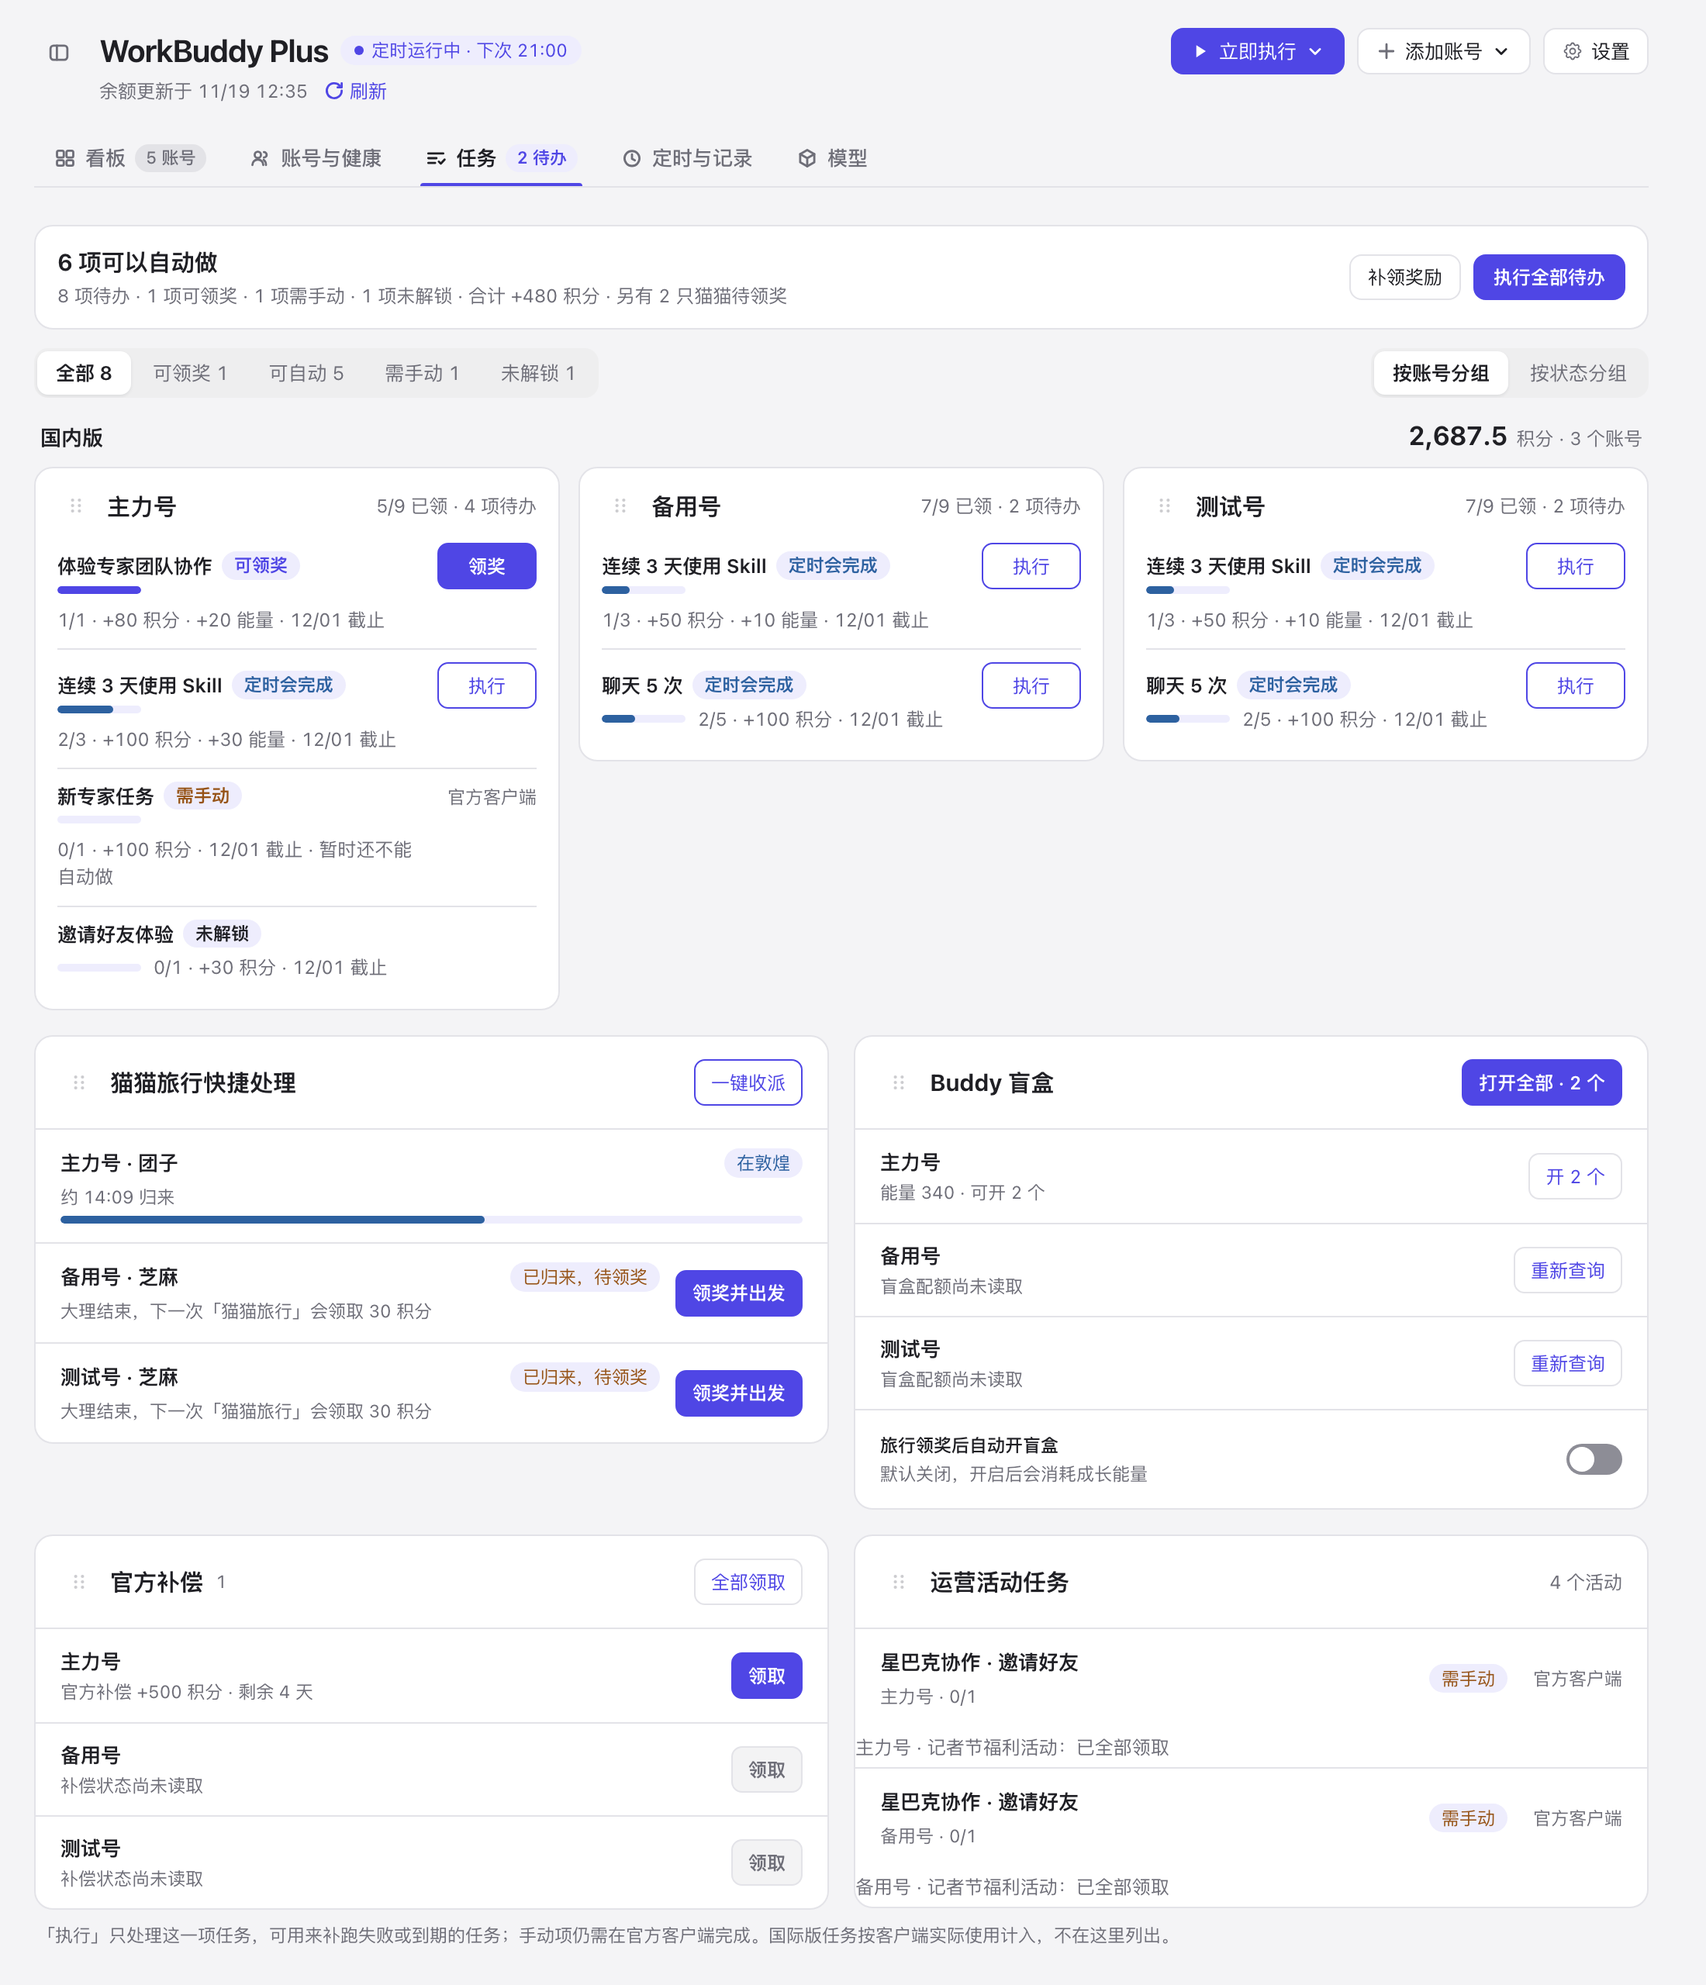
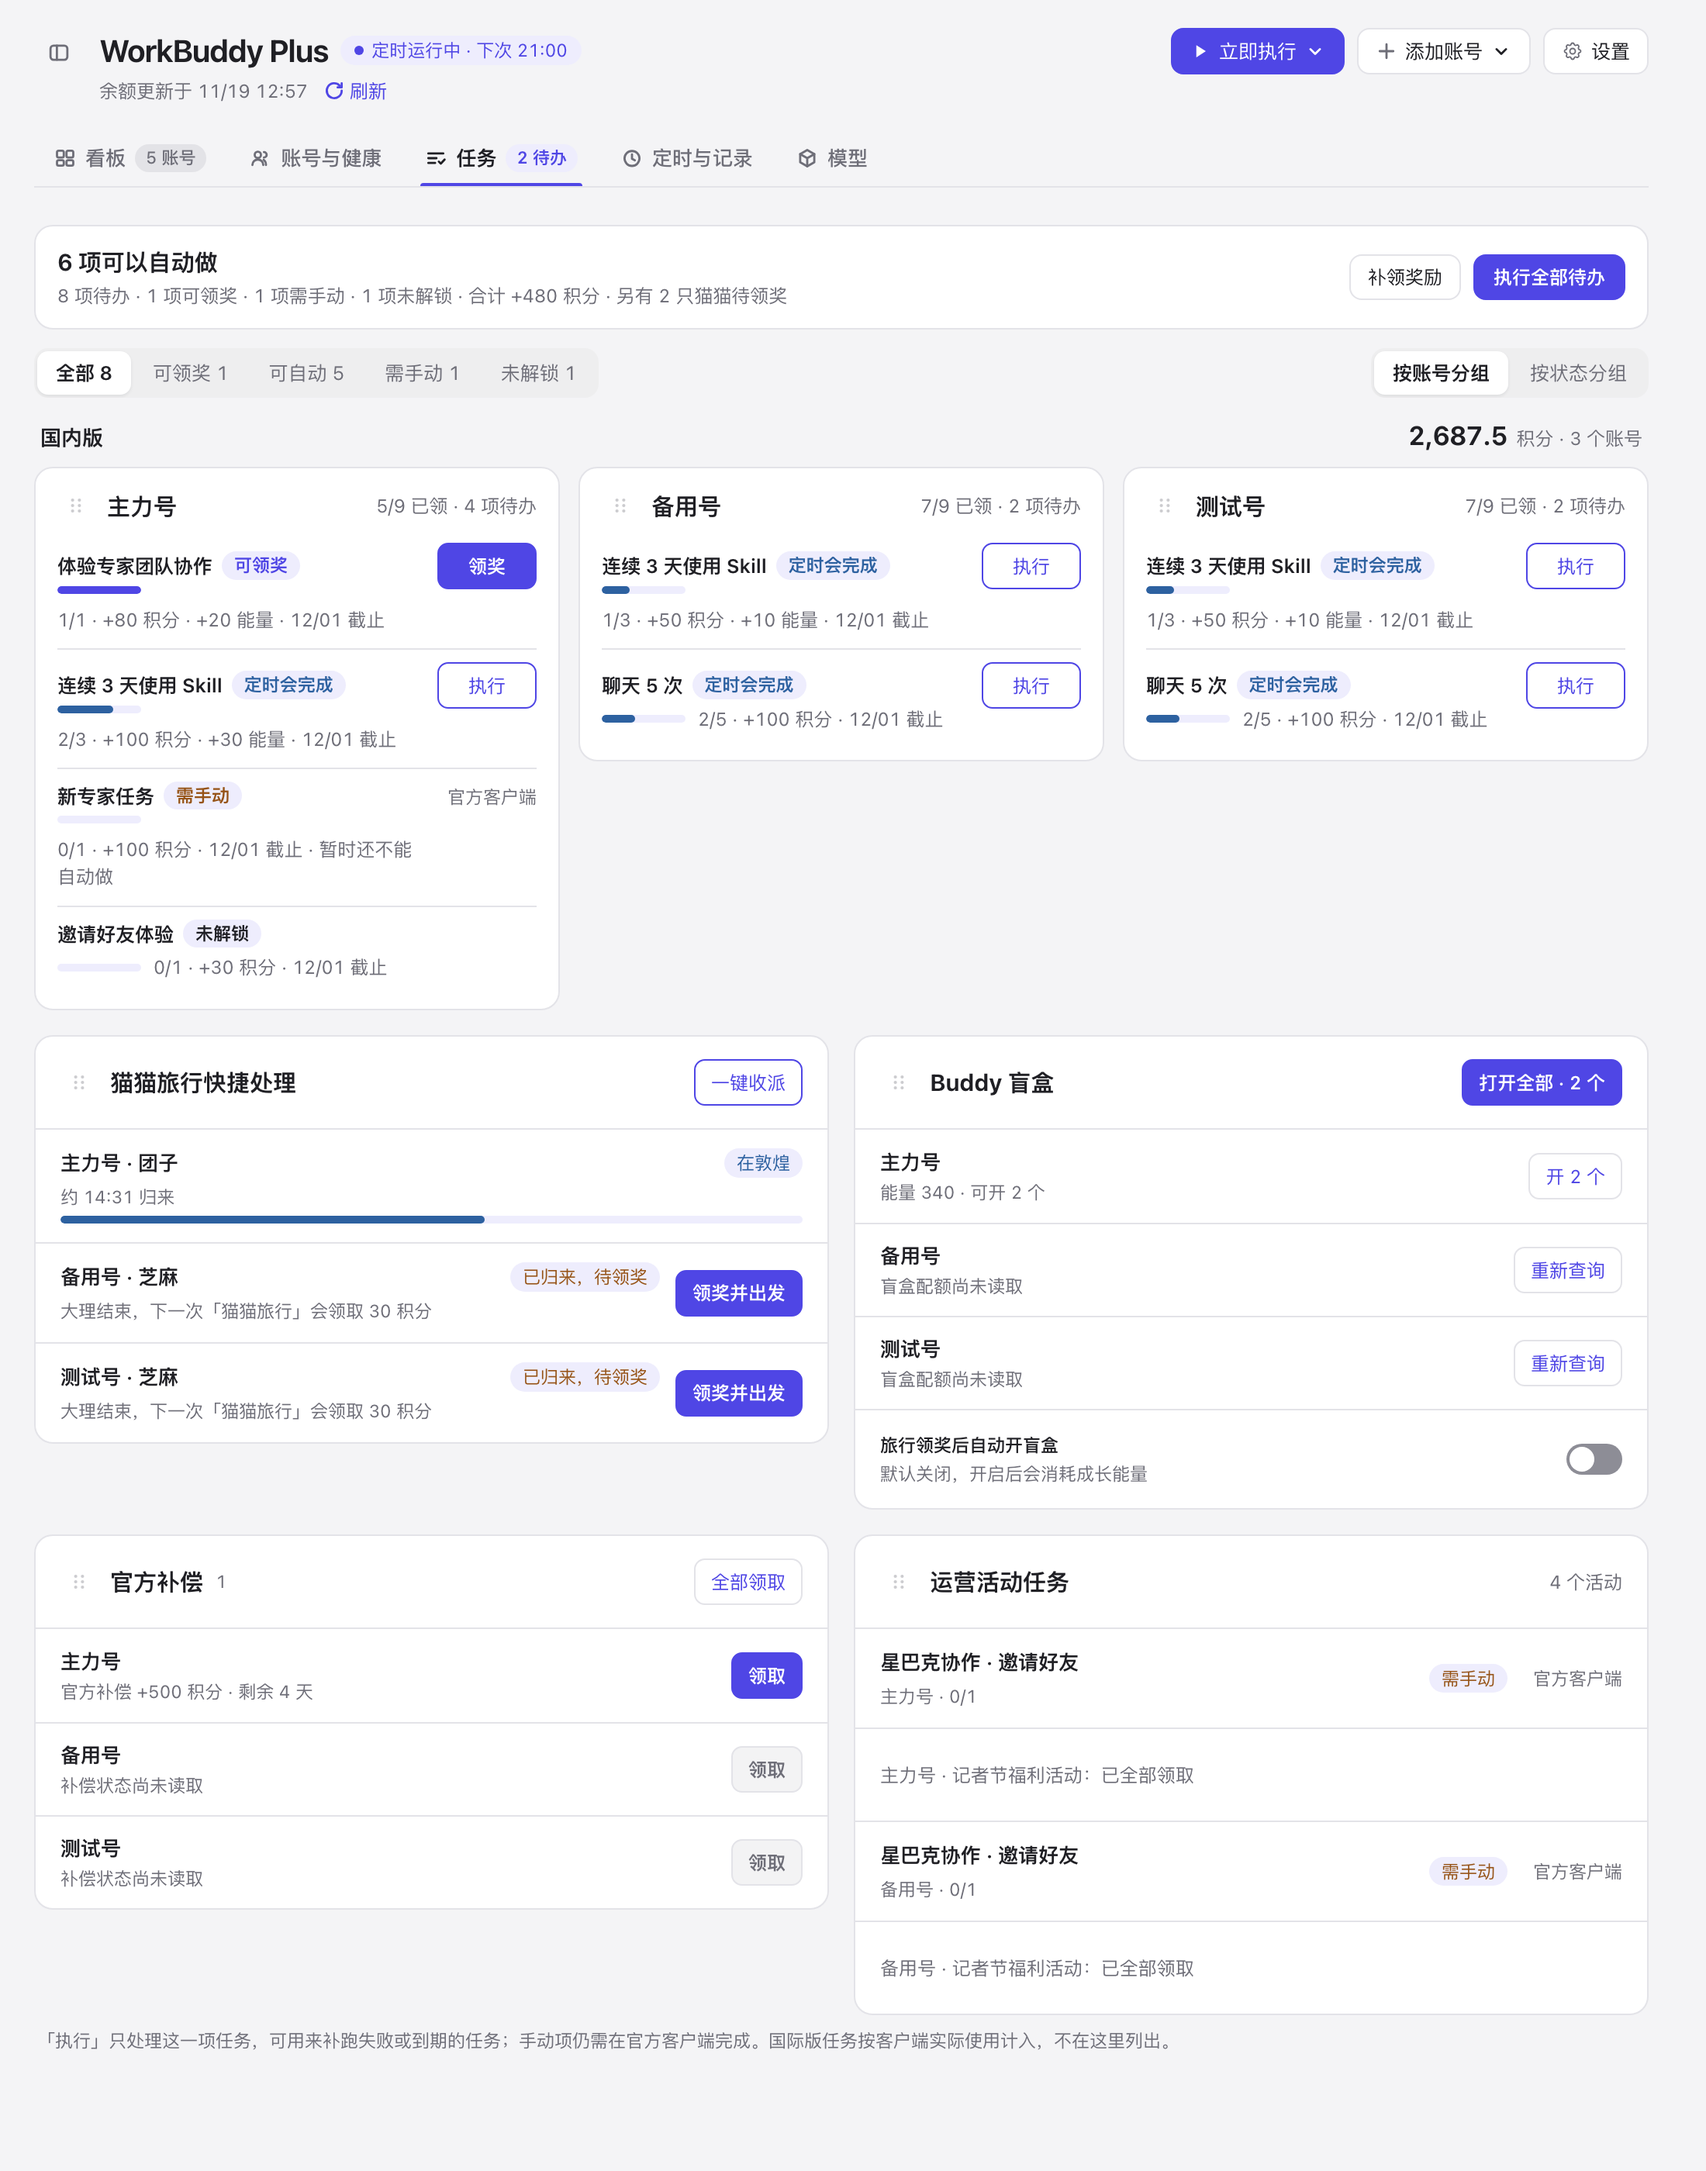
Give claimed campaign rows the task row height
- Use the 60px row rhythm and dividers for fully claimed campaign lines.
- Refresh the demo screenshots with a taller tasks view.

diff --git a/page/board.css b/page/board.css
@@ -487,6 +487,8 @@ body.in-settings button.wb-nav-toggle{display:none}
 .wb-task-run:focus-visible{outline:2px solid var(--wb-accent);outline-offset:2px}
 .wb-task-why{flex:none;white-space:nowrap;width:64px;text-align:right;font-size:11.5px}
 .wb-task-done{font-size:12px;color:var(--wb-muted);padding:4px 0}
+.wb-extra-card .wb-task-done{display:flex;align-items:center;min-height:60px;padding:12px 16px;border-top:1px solid var(--wb-line)}
+.wb-extra-card.wb-task-card>.wb-line+.wb-task-done{border-top:0}
 .wb-companions{display:grid;grid-template-columns:repeat(auto-fit,minmax(300px,1fr));gap:12px;margin-top:12px}
 
 .wb-group+.wb-group{margin-top:18px}
